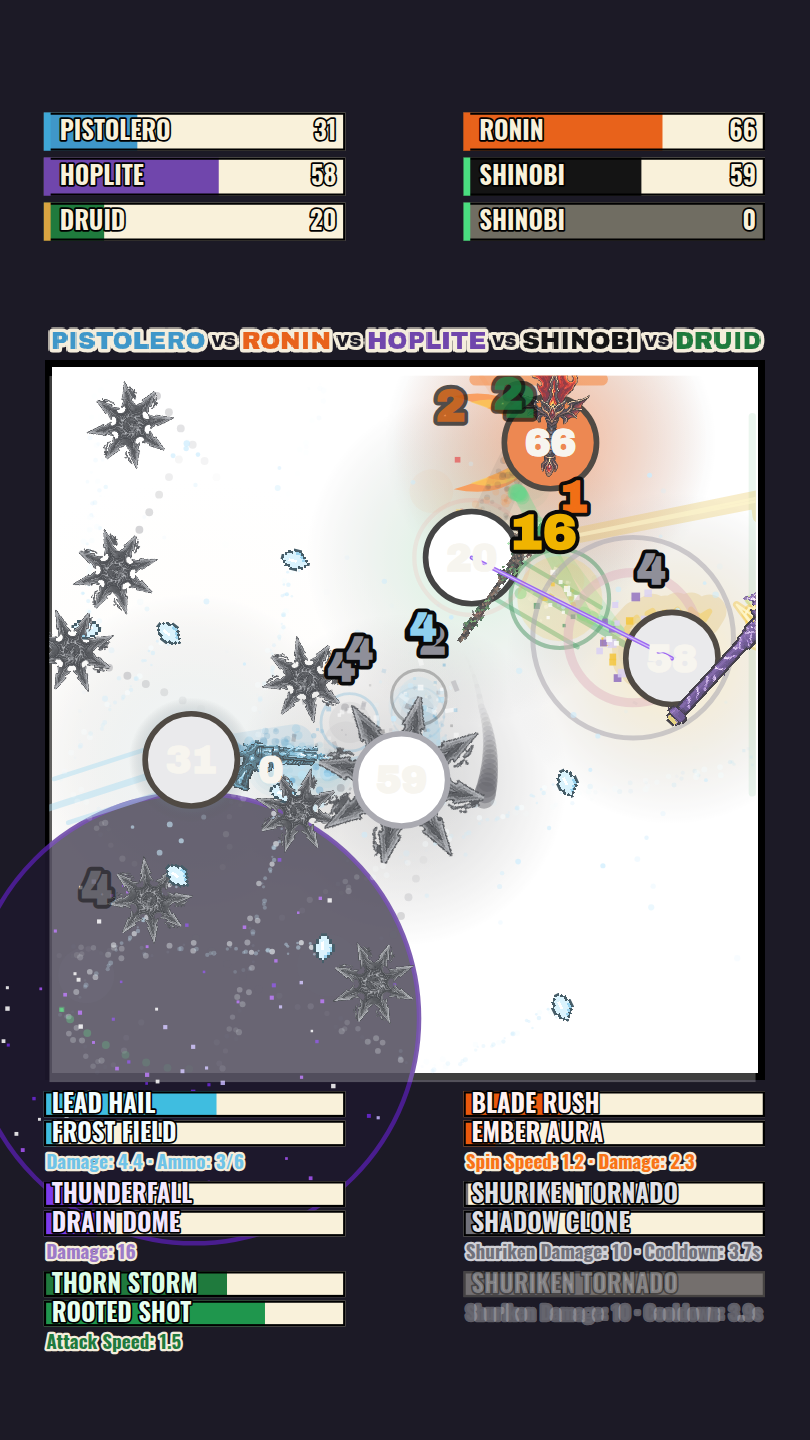
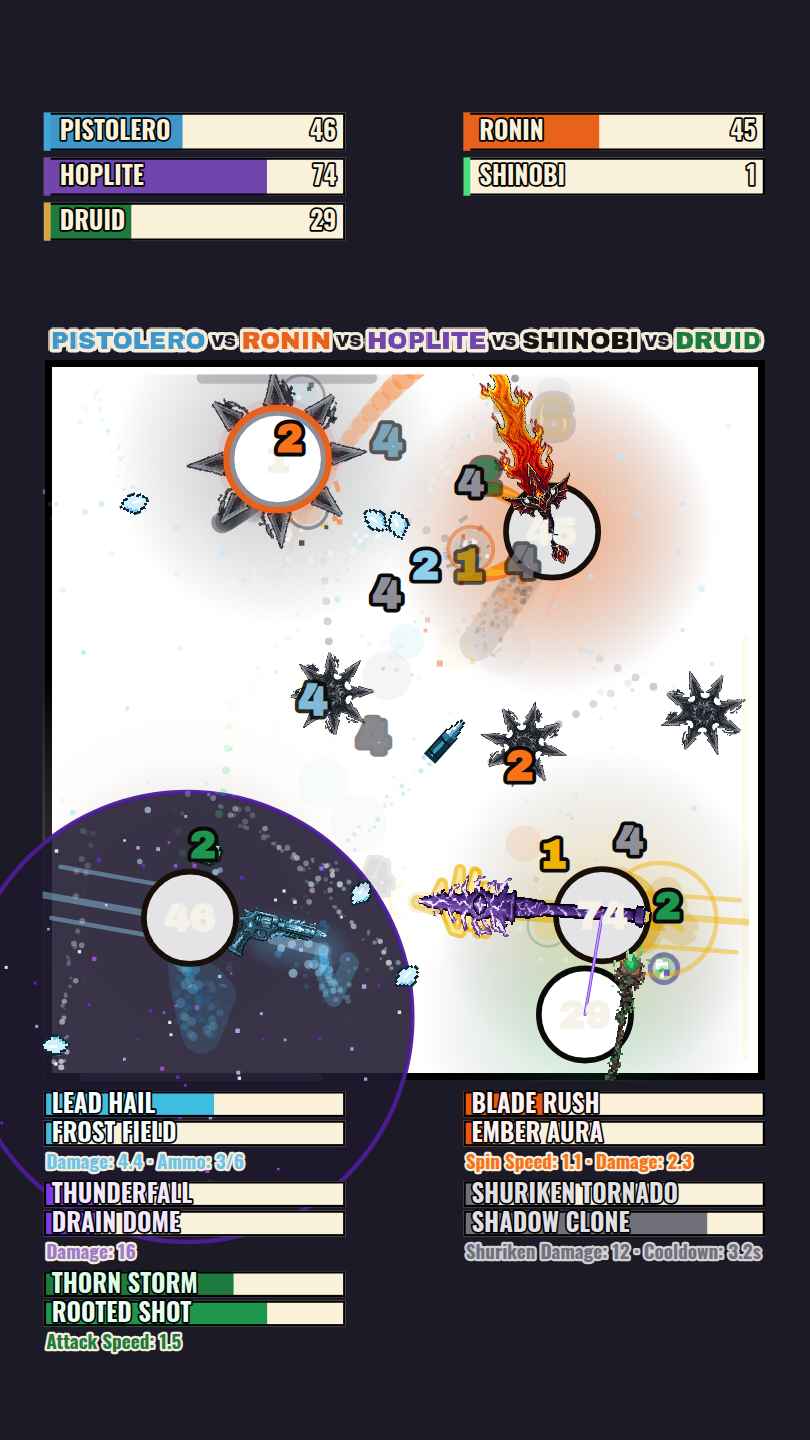
Un clone invoque des clones
« Un clone étant un personnage à part, peut invoquer un clone. » Le garde-fou
saute, et avec lui la dernière ligne de traitement à part : `tickClone` tourne
désormais sur tout ce que le module pilote, sans savoir qui est l'original. Le
marqueur `estClone` a disparu, il n'avait plus de lecteur — et il coupait aussi
la jauge SHADOW CLONE des clones, qui l'affichent maintenant comme les autres.

CE QUI BORNE LA POPULATION, C'EST LA MORTALITÉ, PAS UNE LIMITE

Je m'attendais à devoir poser un plafond. MESURE D'ABORD : au réglage retenu,
les 48 duels du banc ne portent jamais plus de QUATRE corps vivants en même
temps, cinq créés dans le pire duel. Un clone naît à 25 PV contre 100 pour un
vrai combattant : la chaîne s'arrête d'elle-même dès que les doubles meurent
plus vite qu'ils n'invoquent. Aucun plafond ajouté.

`first` PREND LA MAIN SUR `cooldown`

`first` est le délai avant la PREMIÈRE invocation d'un combattant. Tant qu'un
clone ne pouvait pas invoquer, il ne concernait que l'original. Depuis la
récursion, chaque nouveau-né attend `first` avant de poser le suivant : c'est
donc lui, et non `cooldown`, qui fixe la pente de la chaîne.

Balayés dans cet ordre (référence : 23/48 sur les deux camps) :

  first                 5 s   8 s  10 s  11 s  12 s  16 s
  Shinobi /48            39    33    34    29    20    18
  corps vivants au pire   5     5     4     4     4     3

puis cooldown, first figé à 12 s : 12 s -> 31, 16 -> 26, 17 -> 21, 19 -> 20,
[…]

diff --git a/src/data/fighters/wind.js b/src/data/fighters/wind.js
@@ -341,32 +341,42 @@ export const WIND = fiche({
      */
     hp: 25,
     /**
-     * **12 → 5 → 9 → 22 s.** Le va-et-vient n'est pas de l'indécision : chaque
-     * palier répond à une demande qui a changé ce que vaut un clone, et le
-     * banc des deux camps (6 seeds × 8 affrontements) a tranché à chaque fois.
-     * La **référence** est 23/48, le niveau du Shinobi avant tout ce chantier.
+     * **Deux minuteries, et ce n'est plus la même qui commande.**
      *
-     *  1. **clone stationnaire, désarmé, qui jette des shurikens** — 12 s,
-     *     23/48 ;
-     *  2. **clone mobile et armé, sans pouvoir** : il va au contact, donc il
-     *     meurt vite. 4/48 à recharge inchangée. Balayage : 12 s → 4, 8 → 15,
-     *     6 → 19, **5 → 22**, 4 → 25. Les PV du clone, eux, saturaient sans
-     *     jamais y arriver (15 → 4, 25 → 13, 40 → 15, 60 → 17) ;
-     *  3. **clone héritant des PV restants** : la fragilité que 5 s compensait
-     *     disparaît. 5 s → 26, 7 → 22, **9 → 23**, 12 → 17 ;
-     *  4. **clone = combattant à part entière, tous pouvoirs** (l'état
-     *     actuel) : trois Shinobis complets contre un adversaire, **40/48** à
-     *     9 s. Balayage : 9 → 40, 14 → 28, 20 → 29, **22 → 23**, 24 → 20,
-     *     26 → 19, 28 → 19.
+     * `first` est le délai avant la **première** invocation d'un combattant.
+     * Tant qu'un clone ne pouvait pas invoquer, il ne concernait que
+     * l'original et ne servait qu'à laisser le duel s'installer. Depuis que la
+     * récursion est ouverte, **il décide de la pente de la chaîne** : chaque
+     * nouveau-né attend `first` avant de poser le suivant, donc c'est lui, et
+     * non `cooldown`, qui fixe la vitesse à laquelle l'arène se remplit.
+     * `cooldown` ne règle plus que l'entretien.
      *
-     * D'où **22 s**, pile sur la référence. Et le chiffre a un sens au-delà du
-     * banc : avec `first: 5` et des duels de 20 à 30 s, il pose **un** clone,
-     * deux dans un duel qui s'éternise. C'est ce qui garde le 2 contre 1
-     * demandé au lieu d'un 4 contre 1 — à 9 s l'arène portait trois Shinobis
-     * et trois jauges d'ultime, ce qui ne se lit plus.
+     * Balayés dans cet ordre, sur les deux camps (référence : **23/48**) :
+     *
+     * | `first` | 5 s | 8 s | 10 s | 11 s | **12 s** | 16 s |
+     * | --- | --- | --- | --- | --- | --- | --- |
+     * | Shinobi /48 | 39 | 33 | 34 | 29 | **20** | 18 |
+     * | corps vivants au pire | 5 | 5 | 4 | 4 | **4** | 3 |
+     *
+     * Puis `cooldown`, `first` figé à 12 s : 12 s → 31, 16 → 26, **17 → 21**,
+     * 19 → 20, 22 → 20. Les trois derniers sont plats à un duel près, donc du
+     * bruit ; 17 s est le premier qui remonte franchement.
+     *
+     * D'où **12 s / 17 s** : 21/48 contre 23 de référence, et **au plus quatre
+     * corps vivants** dans l'arène, cinq créés dans le pire duel du banc.
+     *
+     * **Le seuil entre 11 et 12 s est une falaise** (29 → 20), et c'est
+     * attendu : c'est là que la chaîne bascule entre « les clones naissent plus
+     * vite qu'ils ne meurent » et l'inverse. Un réglage posé juste à côté d'une
+     * falaise n'est pas robuste — celui-ci est du bon côté, sur le plateau.
+     *
+     * Historique des paliers, chacun répondant à une demande qui a changé ce
+     * que vaut un clone : 12 s (stationnaire et désarmé) → 5 s (mobile et armé,
+     * donc fragile) → 9 s (PV hérités) → 22 s (combattant complet) → 17 s
+     * (récursion). Le détail des balayages est dans `docs/FICHES.md`.
      */
-    cooldown: 22,
-    first: 5, // calé : laisse le duel s'installer avant la première invocation
+    cooldown: 17,
+    first: 12, // calé : c'est LUI qui borne la chaîne, voir ci-dessus
     // Permanent : demandé. Rien ne le fait expirer, seuls ses PV le peuvent.
     offset: 130, // calé : apparaît derrière le Shinobi, hors de son propre corps
     /**

diff --git a/src/render/hud.js b/src/render/hud.js
@@ -109,6 +109,37 @@ function drawGauge(ctx, g, side, value, style) {
  * ordre : un combattant est à la même place dans les deux, sinon l'œil doit
  * chercher deux fois.
  */
+/**
+ * **Pas de rangée, comprimé quand il le faut.**
+ *
+ * Les deux bandeaux étaient calés sur le pire cas connu au moment de leur
+ * écriture : cinq combattants en bataille royale, donc trois rangées de deux.
+ * Le Clone d'ombre a fait sauter cette borne — un clone peut en invoquer un
+ * autre, donc **la colonne d'un camp peut porter quatre plaques ou plus**, et
+ * personne ne sait combien à l'avance.
+ *
+ * Plutôt que de deviner un nouveau maximum, le pas se calcule : il vaut celui
+ * de la fiche tant que la colonne tient, et se resserre juste assez au-delà.
+ * Les dispositions déjà réglées (duel, 2 contre 2, royale à cinq) retombent
+ * donc sur le pas d'origine **au pixel près** — c'est le `Math.min` qui le
+ * garantit, pas une exception écrite à la main.
+ *
+ * @param {number} pas      pas nominal, celui de la fiche
+ * @param {number} haut     ordonnée de la première rangée
+ * @param {number} plancher ordonnée à ne pas dépasser
+ * @param {number} bloc     hauteur occupée par une rangée
+ * @param {number} rangs    nombre de rangées de la colonne la plus chargée
+ */
+function pasDeRangee(pas, haut, plancher, bloc, rangs) {
+  if (rangs < 2) return pas;
+  return Math.min(pas, (plancher - haut - bloc) / (rangs - 1));
+}
+
+/** Rangées de la colonne la plus chargée. */
+function rangs(places) {
+  return places.reduce((m, p) => Math.max(m, p.row + 1), 0);
+}
+
 function placer(fighters) {
   const camps = [...new Set(fighters.map((f) => f.team))];
   if (camps.length !== 2) {
@@ -134,11 +165,14 @@ function placer(fighters) {
  */
 export function drawRosterHp(ctx, fighters, lang) {
   const g = HUD.hpTop;
+  const places = placer(fighters);
+  // le plancher est le haut de casse du titre d'arène, mesuré à 247
+  const pas = pasDeRangee(g.rowHeight, g.y, g.bottom, g.height, rangs(places));
   ctx.save();
   ctx.lineJoin = 'miter';
-  for (const { f, col, row } of placer(fighters)) {
+  for (const { f, col, row } of places) {
     const x = col === 0 ? g.leftX : g.rightX;
-    const y = g.y + row * g.rowHeight;
+    const y = g.y + row * pas;
     const v = clamp(f.hp / f.maxHp, 0, 1);
 
     ctx.fillStyle = STAGE.plate;
@@ -184,10 +218,14 @@ export function drawRosterHp(ctx, fighters, lang) {
  */
 export function drawRosterPowers(ctx, fighters, modules, lang) {
   const g = HUD.powers;
+  const places = placer(fighters);
+  // un bloc = deux jauges, leur écart, et la ligne de stat sous elles
+  const bloc = 2 * (g.barHeight + g.gap) + g.statSize + 4;
+  const pas = pasDeRangee(g.rowHeight, g.y, STAGE.height, bloc, rangs(places));
   ctx.save();
-  for (const { f, col, row } of placer(fighters)) {
+  for (const { f, col, row } of places) {
     const x = col === 0 ? g.leftX : g.rightX;
-    const y = g.y + row * g.rowHeight;
+    const y = g.y + row * pas;
     const mod = modules.get(f);
     // Un mort ne charge plus rien : son bloc s'estompe plutôt que de mentir.
     ctx.globalAlpha = f.alive ? 1 : 0.4;

diff --git a/src/game/abilities/wind.js b/src/game/abilities/wind.js
@@ -184,14 +184,21 @@ export const windAbilities = {
    * lorsque le dernier est mort. C'est le 2 contre 1 demandé, et il sort
    * entièrement de la notion de camp que le moteur avait déjà.
    *
-   * **Un clone n'invoque pas de clone.** C'est la seule limite posée, et elle
-   * est délibérée : le pouvoir se déclencherait chez lui comme chez l'original,
-   * donc le nombre de doubles doublerait toutes les `cooldown` secondes. Un
-   * duel de 25 s finirait à huit corps. Le marqueur `f.estClone` est posé par
-   * `castClone` et lu ici seulement ; l'enlever suffirait à ouvrir la récursion.
+   * **Un clone invoque des clones, comme n'importe quel Shinobi — demandé.**
+   * Il n'y a donc plus une seule ligne de traitement à part : `tickClone`
+   * tourne sur tout ce que le module pilote, sans savoir qui est l'original.
+   * Le marqueur qui coupait la récursion a disparu avec elle.
+   *
+   * **Ce qui borne la population, ce n'est pas une limite, c'est la mortalité.**
+   * Un clone naît à 25 PV contre 100 pour un vrai combattant : la chaîne
+   * s'arrête d'elle-même quand les doubles meurent plus vite qu'ils n'invoquent.
+   * Mesuré sur les 48 duels du banc au réglage retenu : **au plus quatre corps
+   * vivants à la fois**, cinq créés dans le pire duel. C'est `first` — le délai
+   * avant la première invocation d'un combattant, donc aussi celui d'un clone
+   * qui vient de naître — qui décide de la pente ; `cooldown` ne règle que
+   * l'entretien. Voir la fiche, les deux ont été balayés dans cet ordre.
    */
   tickClone(f, dt, now, game) {
-    if (f.estClone) return;
     const sp = f.el.special;
     f.state.cloneCd -= dt;
     if (f.state.cloneCd <= 0) {
@@ -262,7 +269,6 @@ export const windAbilities = {
     );
 
     clone.team = f.team;
-    clone.estClone = true; // marqueur du module, jamais lu par le moteur
     clone.ability.cooldown = f.ability.cooldown;
     clone.ability.timer = f.ability.cooldown;
     clone.stacks = f.stacks;
@@ -369,7 +375,6 @@ export const windAbilities = {
    * a sa propre plaque dans le bandeau du haut et son propre bloc en bas.
    */
   specialBar(f) {
-    if (f.estClone) return null;
     return { value: 1 - clamp(f.state.cloneCd / f.state.cloneSpan, 0, 1) };
   },
 };

diff --git a/src/data/tuning.js b/src/data/tuning.js
@@ -76,7 +76,9 @@ export const HUD = deepFreeze({
    * En duel, rien ici : le chiffre de PV sur la bille est la lecture relevée
    * sur la vidéo, et deux plaques en haut la doubleraient sans rien apprendre.
    */
-  hpTop: { y: 100, rowHeight: 40, height: 34, leftX: 39, rightX: 412, width: 268, border: 2, labelPad: 8 },
+  // `bottom` : le haut de casse du titre d'arène (mesuré 247). Le bandeau ne
+  // doit pas le dépasser — au-delà de trois rangées, `pasDeRangee` resserre.
+  hpTop: { y: 100, rowHeight: 40, height: 34, bottom: 247, leftX: 39, rightX: 412, width: 268, border: 2, labelPad: 8 },
 
   /**
    * **Bloc de pouvoirs par combattant, en bas** — à plusieurs seulement.

diff --git a/docs/FICHES.md b/docs/FICHES.md
@@ -731,6 +731,82 @@ dernier à la matrice alors que le banc des deux camps le donne à 23/48, soit l
 médiane : c'est l'exagération connue de la matrice, qui ne joue chaque paire
 qu'une fois. Seules les cinq lignes du Shinobi bougent.
 
+### Un clone invoque des clones
+
+**Demandé** : « un clone étant un personnage à part, peut invoquer un clone ».
+Le garde-fou de la section précédente saute, et avec lui la dernière ligne de
+traitement à part — `tickClone` tourne désormais sur tout ce que le module
+pilote, sans savoir qui est l'original. Le marqueur `estClone` a disparu, il
+n'avait plus de lecteur.
+
+#### Ce qui borne la population, c'est la mortalité, pas une limite
+
+Je m'attendais à devoir poser un plafond. **Mesure d'abord** : au réglage
+retenu, les 48 duels du banc ne portent jamais plus de **quatre corps vivants**
+en même temps, cinq créés dans le pire duel. Un clone naît à 25 PV contre 100
+pour un vrai combattant : la chaîne s'arrête d'elle-même dès que les doubles
+meurent plus vite qu'ils n'invoquent. Aucun plafond n'a été ajouté.
+
+#### `first` prend la main sur `cooldown`
+
+`first` est le délai avant la **première** invocation d'un combattant. Tant
+qu'un clone ne pouvait pas invoquer, il ne concernait que l'original. Depuis la
+récursion, **chaque nouveau-né attend `first` avant de poser le suivant** :
+c'est donc lui, et non `cooldown`, qui fixe la pente de la chaîne. Balayés dans
+cet ordre (référence : 23/48 sur les deux camps) :
+
+| `first` | 5 s | 8 s | 10 s | 11 s | **12 s** | 16 s |
+| --- | --- | --- | --- | --- | --- | --- |
+| Shinobi /48 | 39 | 33 | 34 | 29 | **20** | 18 |
+| corps vivants au pire | 5 | 5 | 4 | 4 | **4** | 3 |
+
+Puis `cooldown`, `first` figé à 12 s : 12 s → 31, 16 → 26, **17 → 21**,
+19 → 20, 22 → 20. Les trois derniers sont plats à un duel près — du bruit ;
+17 s est le premier qui remonte franchement.
+
+**Retenu : `first` 12 s, `cooldown` 17 s.** 21/48 contre 23 de référence.
+
+**Le seuil entre 11 et 12 s est une falaise** (29 → 20), et c'est attendu :
+c'est là que la chaîne bascule entre « les clones naissent plus vite qu'ils ne
+meurent » et l'inverse. Un réglage posé juste à côté d'une falaise n'est pas
+robuste ; celui-ci est du bon côté, sur le plateau.
+
+#### Le HUD était calé sur un maximum qui n'existe plus
+
+Les deux bandeaux étaient dimensionnés pour le pire cas connu à leur écriture :
+cinq combattants en bataille royale, donc trois rangées de deux. La récursion
+fait sauter cette borne — une colonne de camp peut porter quatre plaques, et
+personne ne sait combien à l'avance. À quatre rangées, la ligne de stat du
+dernier bloc tombait à l'ordonnée 1279 pour une scène qui en fait 1280, et le
+bandeau de PV mordait sur le haut de casse du titre.
+
+`pasDeRangee()` remplace le pas fixe par `Math.min(pas nominal, place
+disponible / rangées)` : les dispositions déjà réglées — duel, 2 contre 2,
+royale à cinq — retombent sur le pas d'origine **au pixel près**, et seules les
+colonnes plus chargées se resserrent. C'est le `Math.min` qui le garantit, pas
+une exception écrite à la main. Vérifié à l'écran en poussant volontairement le
+pouvoir à onze doubles : illisible, mais rien ne déborde.
+
+#### Le roster se rouvre, et c'est encore le Pistolero qui paie
+
+| | Matrice (12 duels) | | Deux camps (48 duels) | |
+| --- | --- | --- | --- | --- |
+| | avant | après | avant | après |
+| Hoplite | 9 | **11** | 35 | 34 |
+| Druide | 6 | **7** | 21 | **27** |
+| Ronin | 6 | **5** | 24 | 24 |
+| Shinobi | 4 | 4 | 23 | **21** |
+| Pistolero | 5 | **3** | 17 | **14** |
+
+Écart de matrice **4–9 → 3–11**, deux camps **17–35 → 14–34**. Le mécanisme est
+le même que celui déjà documenté deux fois : le canon asservi du Pistolero vide
+son barillet sur des leurres, et il y en a plus qu'avant. C'est la **troisième
+fois de suite** que ce pouvoir décide du classement d'un troisième combattant
+sans que sa fiche ne bouge.
+
+Non corrigé : le remonter demanderait de toucher **sa** fiche, ou de réduire le
+nombre de clones — donc de reprendre d'une main ce que la demande donne.
+
 ---
 
 ## 🤠 PISTOLERO — `outlaw` (affiché « PISTOLERO »)

diff --git a/CLAUDE.md b/CLAUDE.md
@@ -61,7 +61,7 @@ de navigation, pas un besoin.
 | `outlaw` Pistolero | Tireur de **glace** | **revolver de givre**, canon **asservi à la cible** (`weapon.spin = 0`), barillet de 6, balles qui **gèlent** (−30 % de vitesse, 1,6 s), et, au rechargement, **un tour complet du pistolet sur lui-même** (`weaponTwirl`). Porte en plus le **Champ de givre**, greffé |
 | `bladesman` Ronin | Duelliste | rotation 0,80 → 3,00 tour/s puis surchauffe, `Damage = 2 × Spin`, brûlure au contact. Porte en plus l’**Aura de braise**, greffée |
 | `lancer` Hoplite | Chargeur | **la lance suit le cap** (`weapon.spin = 0`), **charge** en ligne droite avec la lance de **164 px, la plus longue portée du jeu**, dégâts +2 par touche, et la **Foudre tombante** qui le sort de l'arène. Porte en plus le **Dôme de drain**, greffé |
-| `wind` Shinobi | Ninja | la **bille est le shuriken** — sprite centré, hitbox en **disque** de 75 px tout autour. Palette sombre. Porte le **Clone d'ombre**, conçu pour lui : des doubles de 25 PV qui sont de **vrais combattants du tableau**, dans son camp, avec **tous ses pouvoirs et sa recharge courante** — le duel devient un **2 contre 1**. Un ton plus clair que lui, et ils n'invoquent pas à leur tour |
+| `wind` Shinobi | Ninja | la **bille est le shuriken** — sprite centré, hitbox en **disque** de 75 px tout autour. Palette sombre. Porte le **Clone d'ombre**, conçu pour lui : des doubles de 25 PV qui sont de **vrais combattants du tableau**, dans son camp, avec **tous ses pouvoirs et sa recharge courante** — Clone d'ombre compris, donc **un clone invoque des clones**. Le duel devient un 2 contre 1, parfois un 4 contre 1 ; c'est leur mortalité qui borne la chaîne, pas une limite. Un ton plus clair que lui |
 | `mage` Druide | Tireur | **sceptre braqué, posé sur le flanc et dessiné par-dessus la bille** (`weapon.spin = 0` + `weaponLateral` + `weapon.overBody`), qui envoie des **orbes guidées** (`projectiles.orb.homing`). Sa stat est une **cadence de tir qui monte seule**, +0,05 par orbe tirée. Porte l’**Orage de ronces** et le **Tir enraciné** — des racines le clouent au sol 1 s pour une **orbe majeure** à 3 × les dégâts |
 
 **Les identifiants internes ne sont pas les noms affichés**, et l'écart est
@@ -128,16 +128,18 @@ le Ronin, le Dôme de drain chez l’Hoplite, l’Orage de ronces chez le Druide
 élément disparu parle donc d'une **provenance**, pas d'un fichier à ouvrir.
 
 **Relevé de matrice courant** (`tools/matrix-reference.txt`), sur 12 duels hors
-miroir chacun : Hoplite 9, Ronin 6, Druide 6, Pistolero 5, Shinobi 4.
+miroir chacun : Hoplite 11, Druide 7, Ronin 5, Shinobi 4, Pistolero 3.
 
-Écart **4 à 9** — le plus resserré depuis longtemps, et il s'est **refermé** au
-dernier relevé (il était de 2 à 11). Encore une fois sans qu'aucune fiche
-d'adversaire ne bouge : le Clone d'ombre du Shinobi a cessé d'hériter des PV de
-son invocateur (il naît à 25) et est devenu un combattant à part entière. Le
-Pistolero, que l'héritage avait fait tomber, remonte de 2 à 5 ; l'Hoplite, qui
-dominait, descend de 11 à 9 parce qu'il perd désormais un duel sur trois face à
-un camp à deux. **Le pouvoir d'un combattant continue de décider du classement
-des autres** — voir le piège du même nom plus bas.
+Écart **3 à 11**, et il s'est **rouvert** au dernier relevé (il était de 4 à 9).
+Toujours sans qu'aucune fiche d'adversaire ne bouge : le Clone d'ombre du
+Shinobi peut maintenant s'invoquer lui-même, donc l'arène porte jusqu'à quatre
+corps, et **c'est encore le Pistolero qui paie** — son barillet se vide sur des
+leurres. Sur les **deux camps**, qui est la mesure moins caricaturale, l'écart
+va de 14/48 (Pistolero) à 34/48 (Hoplite), contre 17–35 au relevé précédent.
+
+**Le pouvoir d'un combattant décide du classement des autres**, et c'est la
+troisième fois de suite que le Clone d'ombre le démontre — voir le piège du
+même nom plus bas.
 
 **D'où vient l'écart : du gel de l'attente d'avant-combat, pas d'un réglage.**
 Les combattants se déplaçaient pendant la seconde d'ouverture — ce n'était donc

diff --git a/README.md b/README.md
@@ -64,7 +64,7 @@ voir [`docs/FICHES.md`](docs/FICHES.md).
 | **Pistolero** | **Champ de givre** — il le suit partout, ralentit et grignote ce qui entre dedans |
 | **Ronin** | **Aura de braise** — il sème des braises, et tout ce qui l’approche brûle |
 | **Hoplite** | **Dôme de drain** — l’adversaire est figé sous un dôme, un rayon le vide |
-| **Shinobi** | **Clone d'ombre** — des doubles de 25 PV qui entrent dans la partie comme de **vrais combattants**, dans son camp et avec **tous ses pouvoirs** : le duel devient un 2 contre 1. Un ton plus clair que lui, et ils n'invoquent pas à leur tour |
+| **Shinobi** | **Clone d'ombre** — des doubles de 25 PV qui entrent dans la partie comme de **vrais combattants**, dans son camp et avec **tous ses pouvoirs**, Clone d'ombre compris : un clone invoque des clones, et le duel passe en 2 contre 1, parfois plus. Un ton plus clair que lui |
 | **Druide** | **Tir enraciné** — des racines le clouent au sol une seconde, il cesse de bouger *et* de tirer, puis lâche une **orbe majeure** à trois fois les dégâts |
 
 <sup>[Le Champ de givre du Pistolero](docs/capture-blizzard.png) · [le Dôme de drain de l’Hoplite](docs/capture-lien.png) · [le Clone d'ombre du Shinobi](docs/capture-clone.png) · [les orbes guidées du Druide](docs/capture-mage.png) · [son Orage de ronces](docs/capture-mage-tempete.png) · [son Tir enraciné](docs/capture-mage-enracine.png).</sup>
